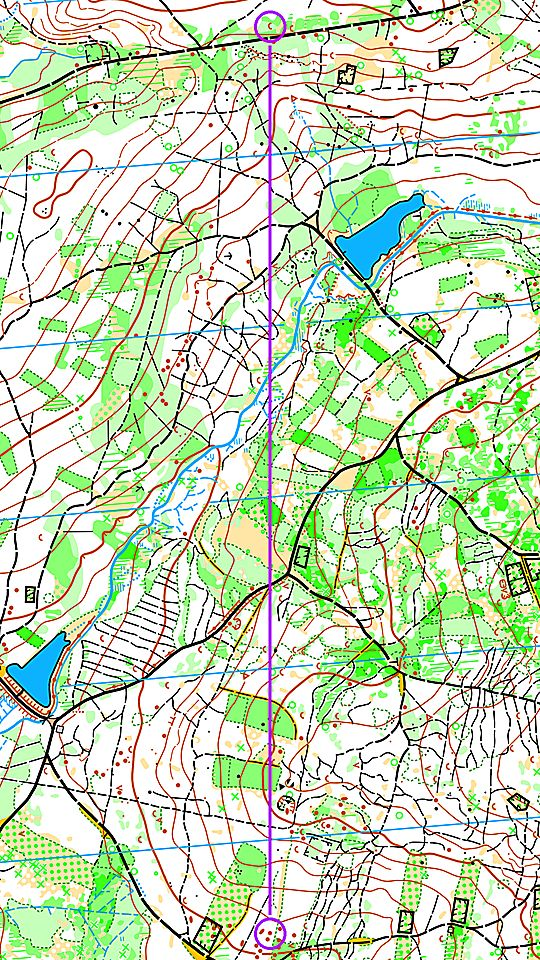
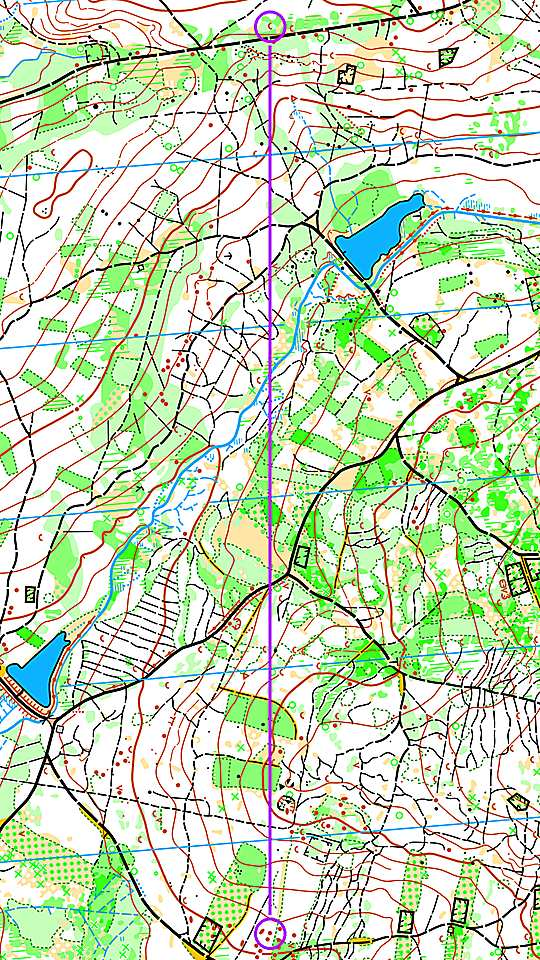
d

Changed region(s): [[0.0, 0.0, 1.0, 1.0], [0.8296, 0.0938, 0.8593, 0.125]]

diff --git a/14_export_thumbnails.py b/14_export_thumbnails.py
@@ -31,11 +31,11 @@ Image.MAX_IMAGE_PIXELS = None
 
 # Cílový poměr stran 4:5 (šířka:výška, IG portrait)
 TARGET_ASPECT = 4 / 5
-# Velikost výstupního thumbnailu (optimalizována na 640px pro bleskurychlé načítání a perfektní ostrost na Retina mobilech)
-THUMB_WIDTH = 640
-THUMB_HEIGHT = int(THUMB_WIDTH / TARGET_ASPECT)  # = 800
-# JPEG kvalita (80 pro ideální kompresi a vynikající ostrost)
-JPEG_QUALITY = 80
+# Velikost výstupního thumbnailu (vyváženo na 1200px pro perfektní 1:1 pixelovou ostrost při 7x zoomu)
+THUMB_WIDTH = 1200
+THUMB_HEIGHT = int(THUMB_WIDTH / TARGET_ASPECT)  # = 1500
+# JPEG kvalita (55 pro extrémně efektivní kompresi bez viditelných artefaktů na mobilu)
+JPEG_QUALITY = 55
 # Výchozí zoom kamery na úvodní stránce (700 % = detailní záběr mapy s čitelnými vrstevnicemi a kameny)
 DEFAULT_MAP_ZOOM = 700
 
